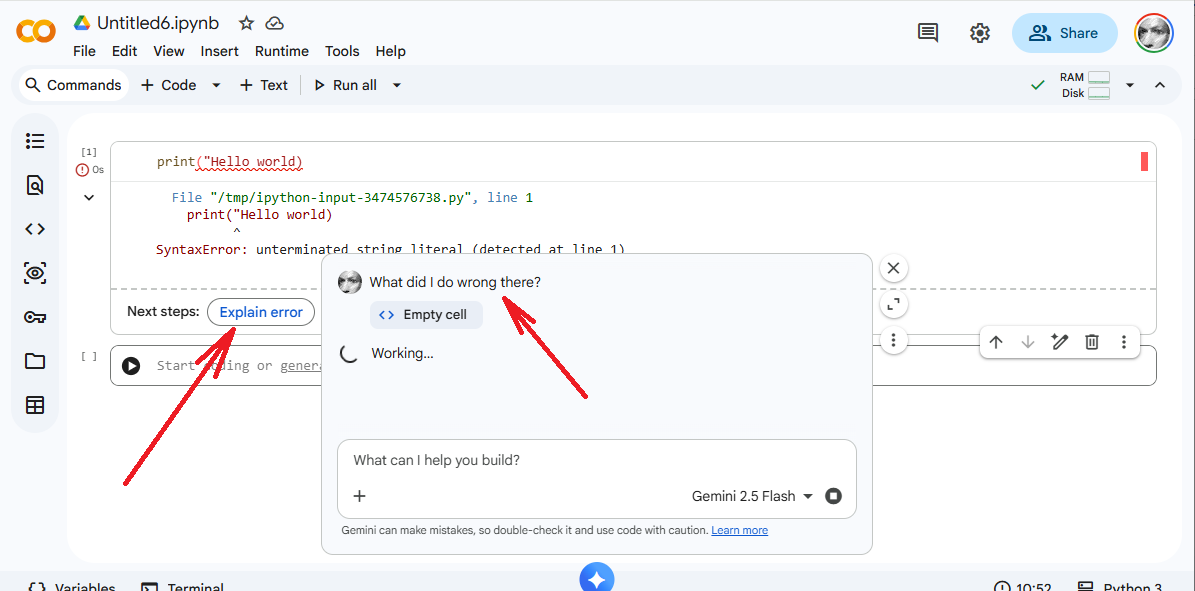
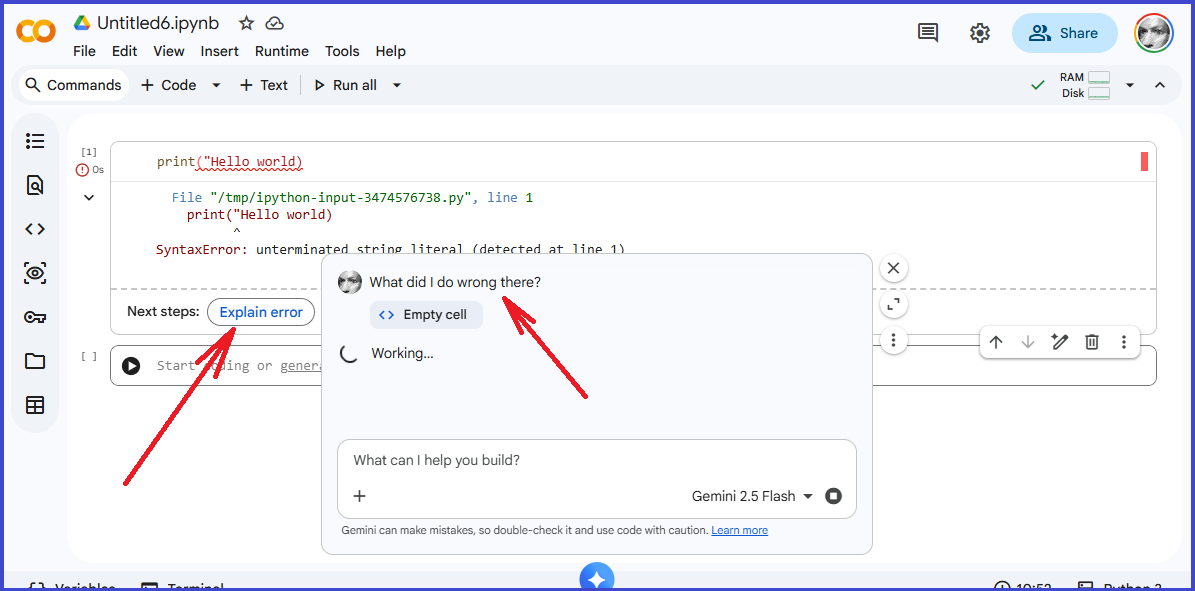
Update README.md

Changed region(s): [[0.0, 0.0, 1.0, 1.0]]

diff --git a/README.md b/README.md
@@ -1,47 +1,56 @@
-# DATA 5K — Colab NOTEBOOKS
+# DATA5000 Colab Notebooks
 
-Week 1: 
-https://colab.research.google.com/github/clarkian-teachings/data5k/blob/main/week_01/week_1_notebook.ipynb 
+👉 Start here (30 seconds):
 
-Week 2 (notebook 1): 
-https://colab.research.google.com/github/clarkian-teachings/data5k/blob/main/week_02/week_2_1_notebook.ipynb 
-
-Week 2 (notebook 2): 
-https://colab.research.google.com/github/clarkian-teachings/data5k/blob/main/week_02/week_2_2_notebook.ipynb 
-
-Week 3 (notebook 1): 
-https://colab.research.google.com/github/clarkian-teachings/data5k/blob/main/week_03/week_3_1_notebook.ipynb 
-
-Week 3 (notebook 2): 
-https://colab.research.google.com/github/clarkian-teachings/data5k/blob/main/week_03/week_3_2_notebook.ipynb 
-
-Week 4: 
-https://colab.research.google.com/github/clarkian-teachings/data5k/blob/main/week_04/week_4_notebook.ipynb 
-
-Week 5: 
-https://colab.research.google.com/github/clarkian-teachings/data5k/blob/main/week_05/week_5_notebook.ipynb 
-
-Week 6 (notebook 1): 
-https://colab.research.google.com/github/clarkian-teachings/data5k/blob/main/week_06/week_6_1_notebook.ipynb 
-
-Week 6 (notebook 2): 
-https://colab.research.google.com/github/clarkian-teachings/data5k/blob/main/week_06/week_6_2_notebook.ipynb 
-
-Week 8: 
-https://colab.research.google.com/github/clarkian-teachings/data5k/blob/main/week_08/week_8_notebook.ipynb 
-
-Week 10: 
-https://colab.research.google.com/github/clarkian-teachings/data5k/blob/main/week_10/week_10_notebook.ipynb 
-
-Week 11: 
-https://colab.research.google.com/github/clarkian-teachings/data5k/blob/main/week_11/week_11_notebook.ipynb 
-
-Week 12: 
-https://colab.research.google.com/github/clarkian-teachings/data5k/blob/main/week_12/week_12_notebook.ipynb 
+- Click your week’s link
+- In Colab: File → Save a copy in Drive
+- If errors: Runtime → Restart runtime (then Run all)
 
 
-This repository contains **updated, instructor-checked versions** of the weekly notebooks used in DATA5000.
-These materials are provided solely as supplementary teaching support and do not replace the official materials hosted on MyKBS.
+
+🤔 If you get stuck:
+
+In-browser AI-assisted support is quite extensive and often very helpful - see the image below (click it to zoom in).
+
+<a href="SyntaxError.png">
+  <img src="SyntaxError.png" alt="Syntax error screenshot" width="480"
+       style="border:12px solid #1f6feb; border-radius:8px;">
+</a>
+
+If you’re still stuck after ~2 minutes, raise your hand 🙋 and ask! (*include week #, cell #, the full error message, and a screenshot if possible*).
+
+## ASSESSMENT A2 
+
+- Assessment A2 materials (notebook + data + instructions) will be posted here 10 minutes before Week 9's class i.e. at **12:50pm Perth time on Thursday 22 January 2026**)
+
+## Teaching Notebooks (for weekly practice and revision)
+
+- Week 1: [`week_1_notebook.ipynb`](https://colab.research.google.com/github/clarkian-teachings/data5k/blob/main/week_01/week_1_notebook.ipynb)
+- Week 2 (Notebook 1): [`week_2_1_notebook.ipynb`](https://colab.research.google.com/github/clarkian-teachings/data5k/blob/main/week_02/week_2_1_notebook.ipynb)
+- Week 2 (Notebook 2): [`week_2_2_notebook.ipynb`](https://colab.research.google.com/github/clarkian-teachings/data5k/blob/main/week_02/week_2_2_notebook.ipynb)
+- Week 3 (Notebook 1): [`week_3_1_notebook.ipynb`](https://colab.research.google.com/github/clarkian-teachings/data5k/blob/main/week_03/week_3_1_notebook.ipynb)
+- Week 3 (Notebook 2): [`week_3_2_notebook.ipynb`](https://colab.research.google.com/github/clarkian-teachings/data5k/blob/main/week_03/week_3_2_notebook.ipynb) 
+- Week 4: [`week_4_notebook.ipynb`](https://colab.research.google.com/github/clarkian-teachings/data5k/blob/main/week_04/week_4_notebook.ipynb)
+- Week 5: [`week_5_notebook.ipynb`](https://colab.research.google.com/github/clarkian-teachings/data5k/blob/main/week_05/week_5_notebook.ipynb) 
+- Week 6 (Notebook 1): [`week_6_1_notebook.ipynb`](https://colab.research.google.com/github/clarkian-teachings/data5k/blob/main/week_06/week_6_1_notebook.ipynb) 
+- Week 6 (Notebook 2): [`week_6_2_notebook.ipynb`](https://colab.research.google.com/github/clarkian-teachings/data5k/blob/main/week_06/week_6_2_notebook.ipynb) 
+
+## Supplementary Notebooks (for reference)
+
+- [`Workbook 1 - Getting Started with Python & Google Colab`](https://colab.research.google.com/github/clarkian-teachings/clarkian-python-ml-intro/blob/main/notebooks/Python_Teaching_Workbook_1.ipynb)
+- [`Workbook 2 - Fitting and Overfitting`](https://colab.research.google.com/github/clarkian-teachings/clarkian-python-ml-intro/blob/main/notebooks/Python_Teaching_Workbook_2.ipynb)
+- [`Workbook 3 - Putting the Data in Data Science`](https://colab.research.google.com/github/clarkian-teachings/clarkian-python-ml-intro/blob/main/notebooks/Python_Teaching_Workbook_3.ipynb)
+
+This repository contains **updated, instructor-checked versions** of the weekly notebooks used in DATA5000, plus links to some of Isin Clark's personal training materisls
+These materials are provided solely as supplementary teaching support and do not replace the official materials.
+
+---
+
+Official Google Welcome to Colab page
+https://colab.research.google.com/
+
+Google Colab AI (NEW)
+https://colab.research.google.com/github/googlecolab/colabtools/blob/main/notebooks/Getting_started_with_google_colab_ai.ipynb
 
 ---
 
@@ -53,7 +62,7 @@ https://github.com/data-5000/data5000
 The upstream materials were released under the **MIT Licence**, which permits
 copying, modification, redistribution, and reuse.
 
-**Source material © data-5000/data5000 (MIT Licence).**  
+**Source material © data-5000/data5000 (MIT Licence); Supplementary Notebooks © Iain J. Clark.**  
 
 All modified content in this repository is also provided under the MIT Licence.
 
